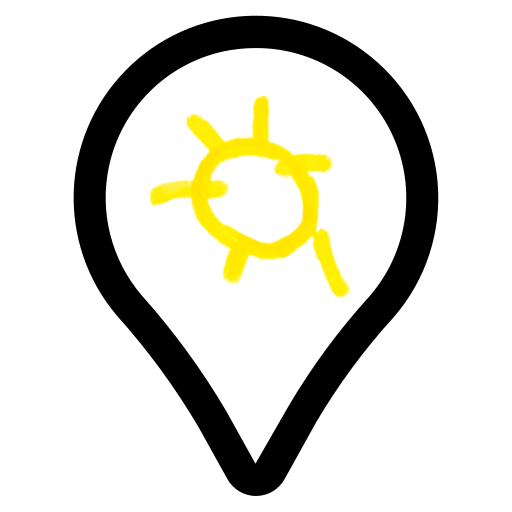
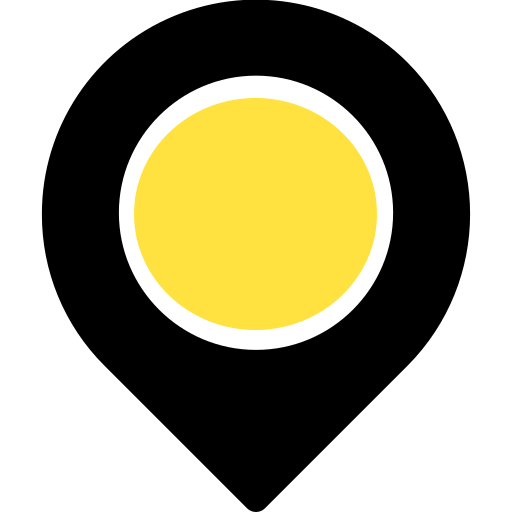
changed map marker

diff --git a/app/javascript/controllers/map_controller.js b/app/javascript/controllers/map_controller.js
@@ -29,9 +29,9 @@ export default class extends Controller {
       const customMarker = document.createElement("div")
       customMarker.className = "marker"
       customMarker.style.backgroundImage = `url('${marker.image_url}')`
-      customMarker.style.backgroundSize = "contain"
-      customMarker.style.width = "50px"
-      customMarker.style.height = "50px"
+      customMarker.style.backgroundSize = "cover"
+      customMarker.style.width = "35px"
+      customMarker.style.height = "35px"
 
       // Pass the element as an argument to the new marker
       new mapboxgl.Marker(customMarker)

diff --git a/app/controllers/kinder_gartens_controller.rb b/app/controllers/kinder_gartens_controller.rb
@@ -4,7 +4,7 @@ class KinderGartensController < ApplicationController
       {
         lat: k.latitude,
         lng: k.longitude,
-        image_url: helpers.asset_url("sun.png")
+        image_url: helpers.asset_url("marker.png")
       }
     end
   end
